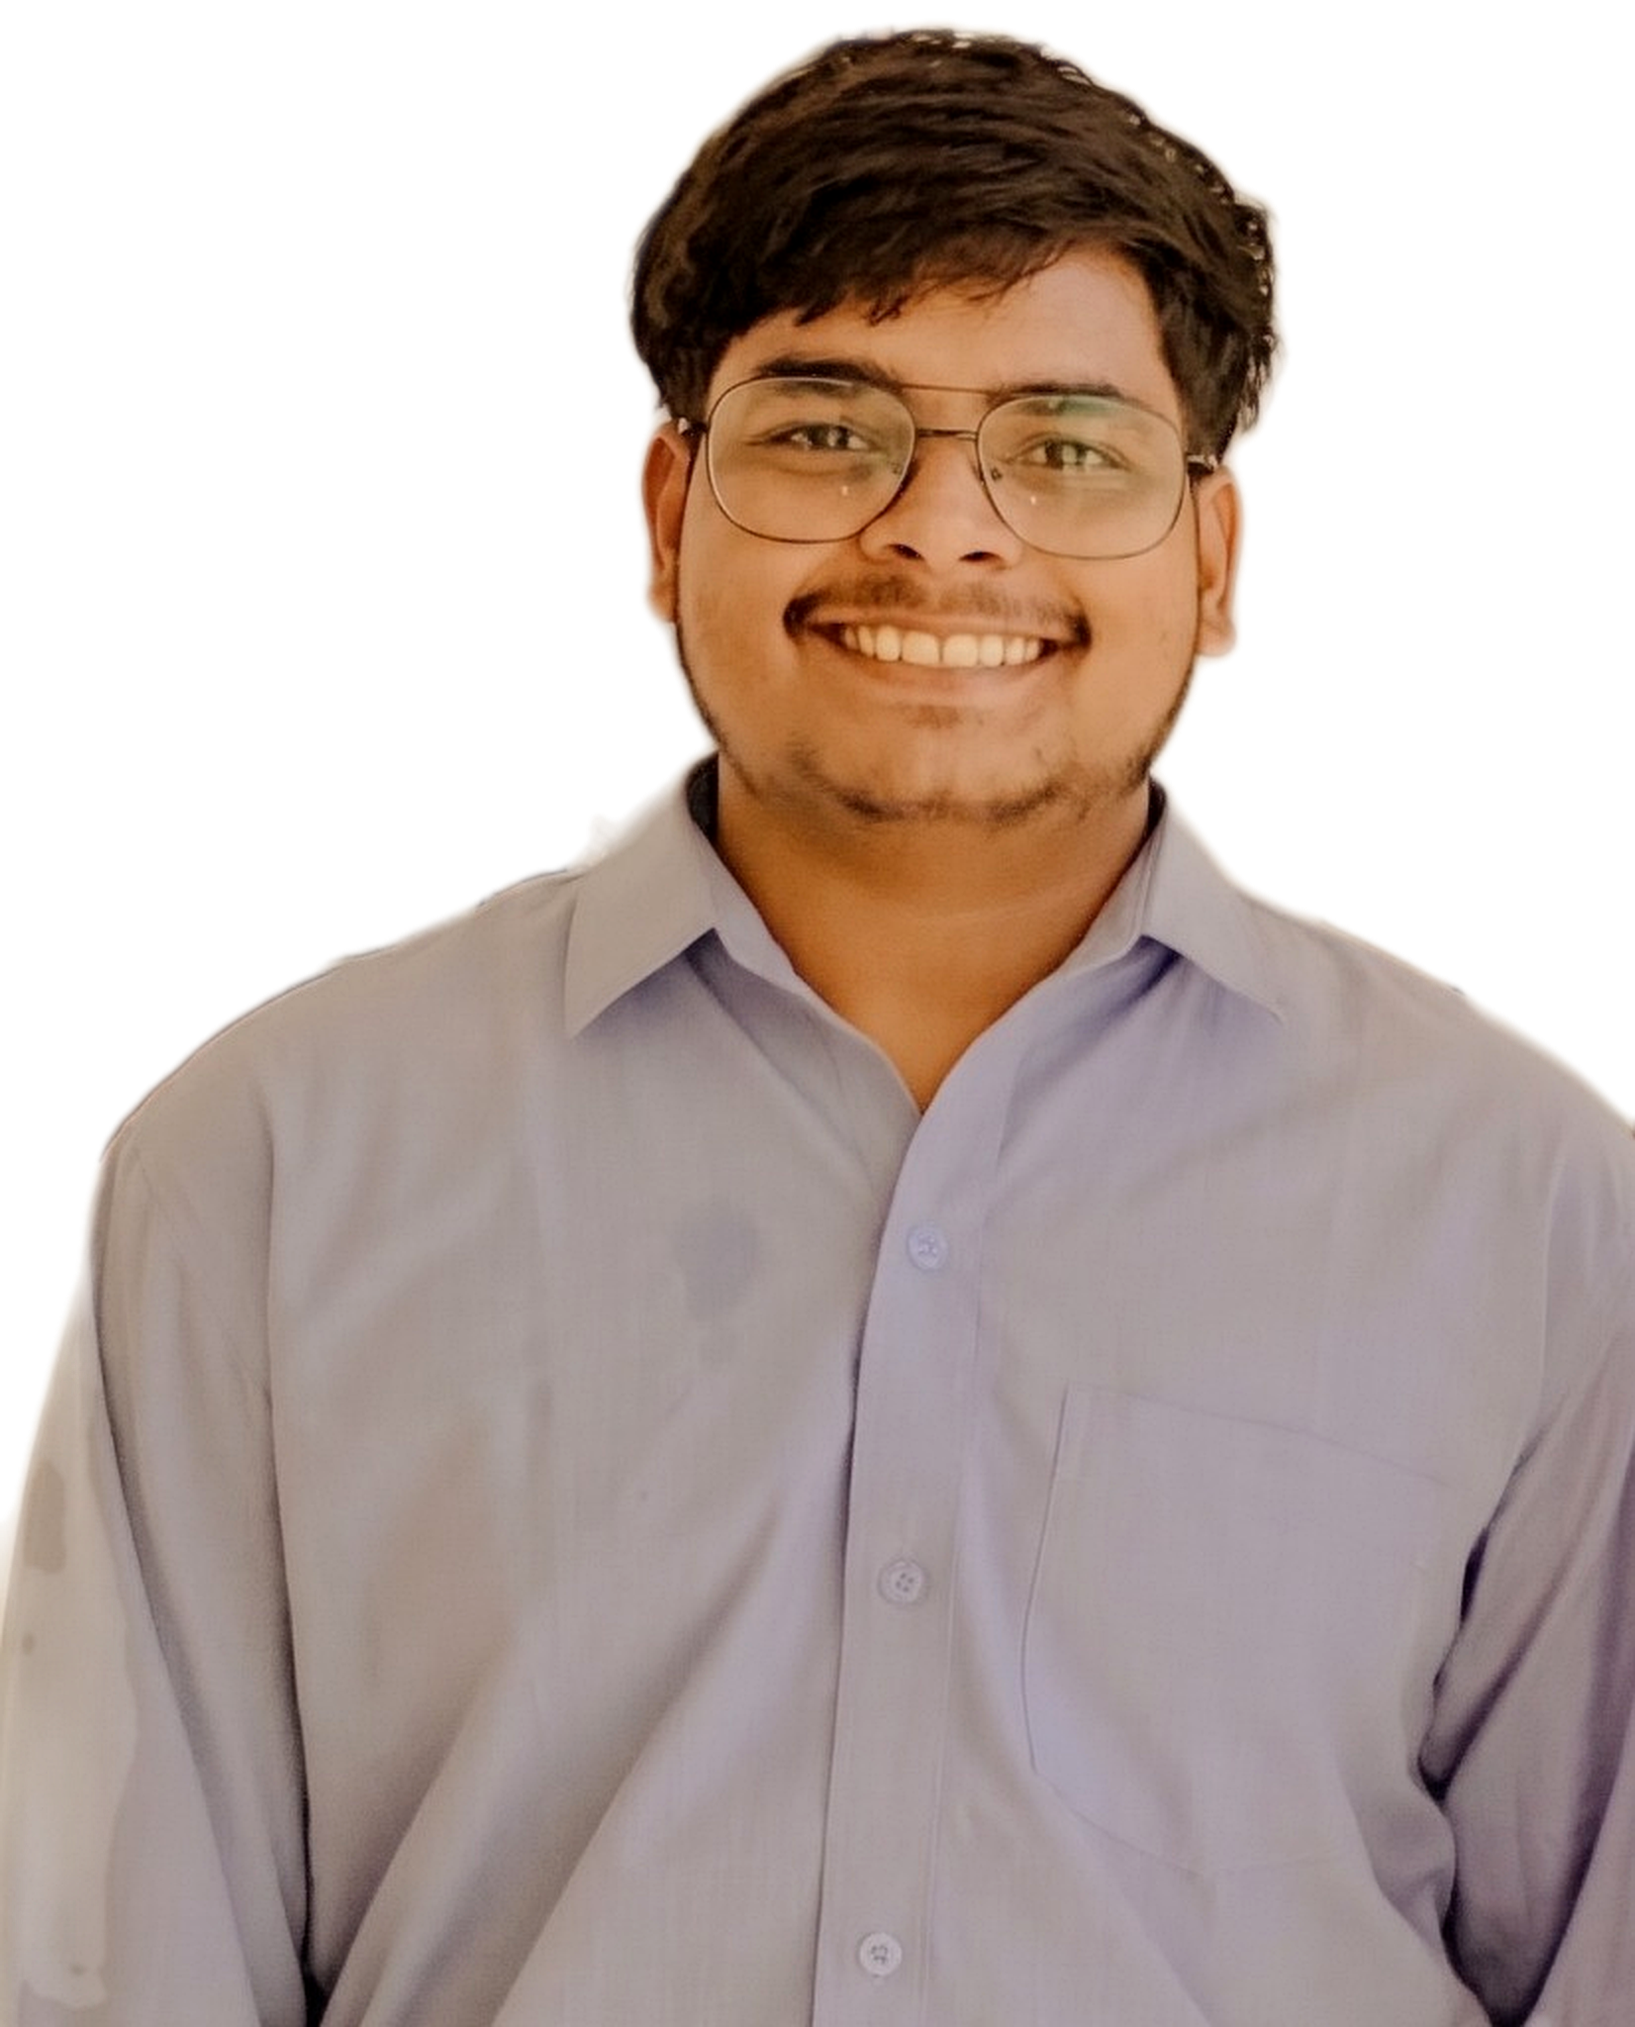
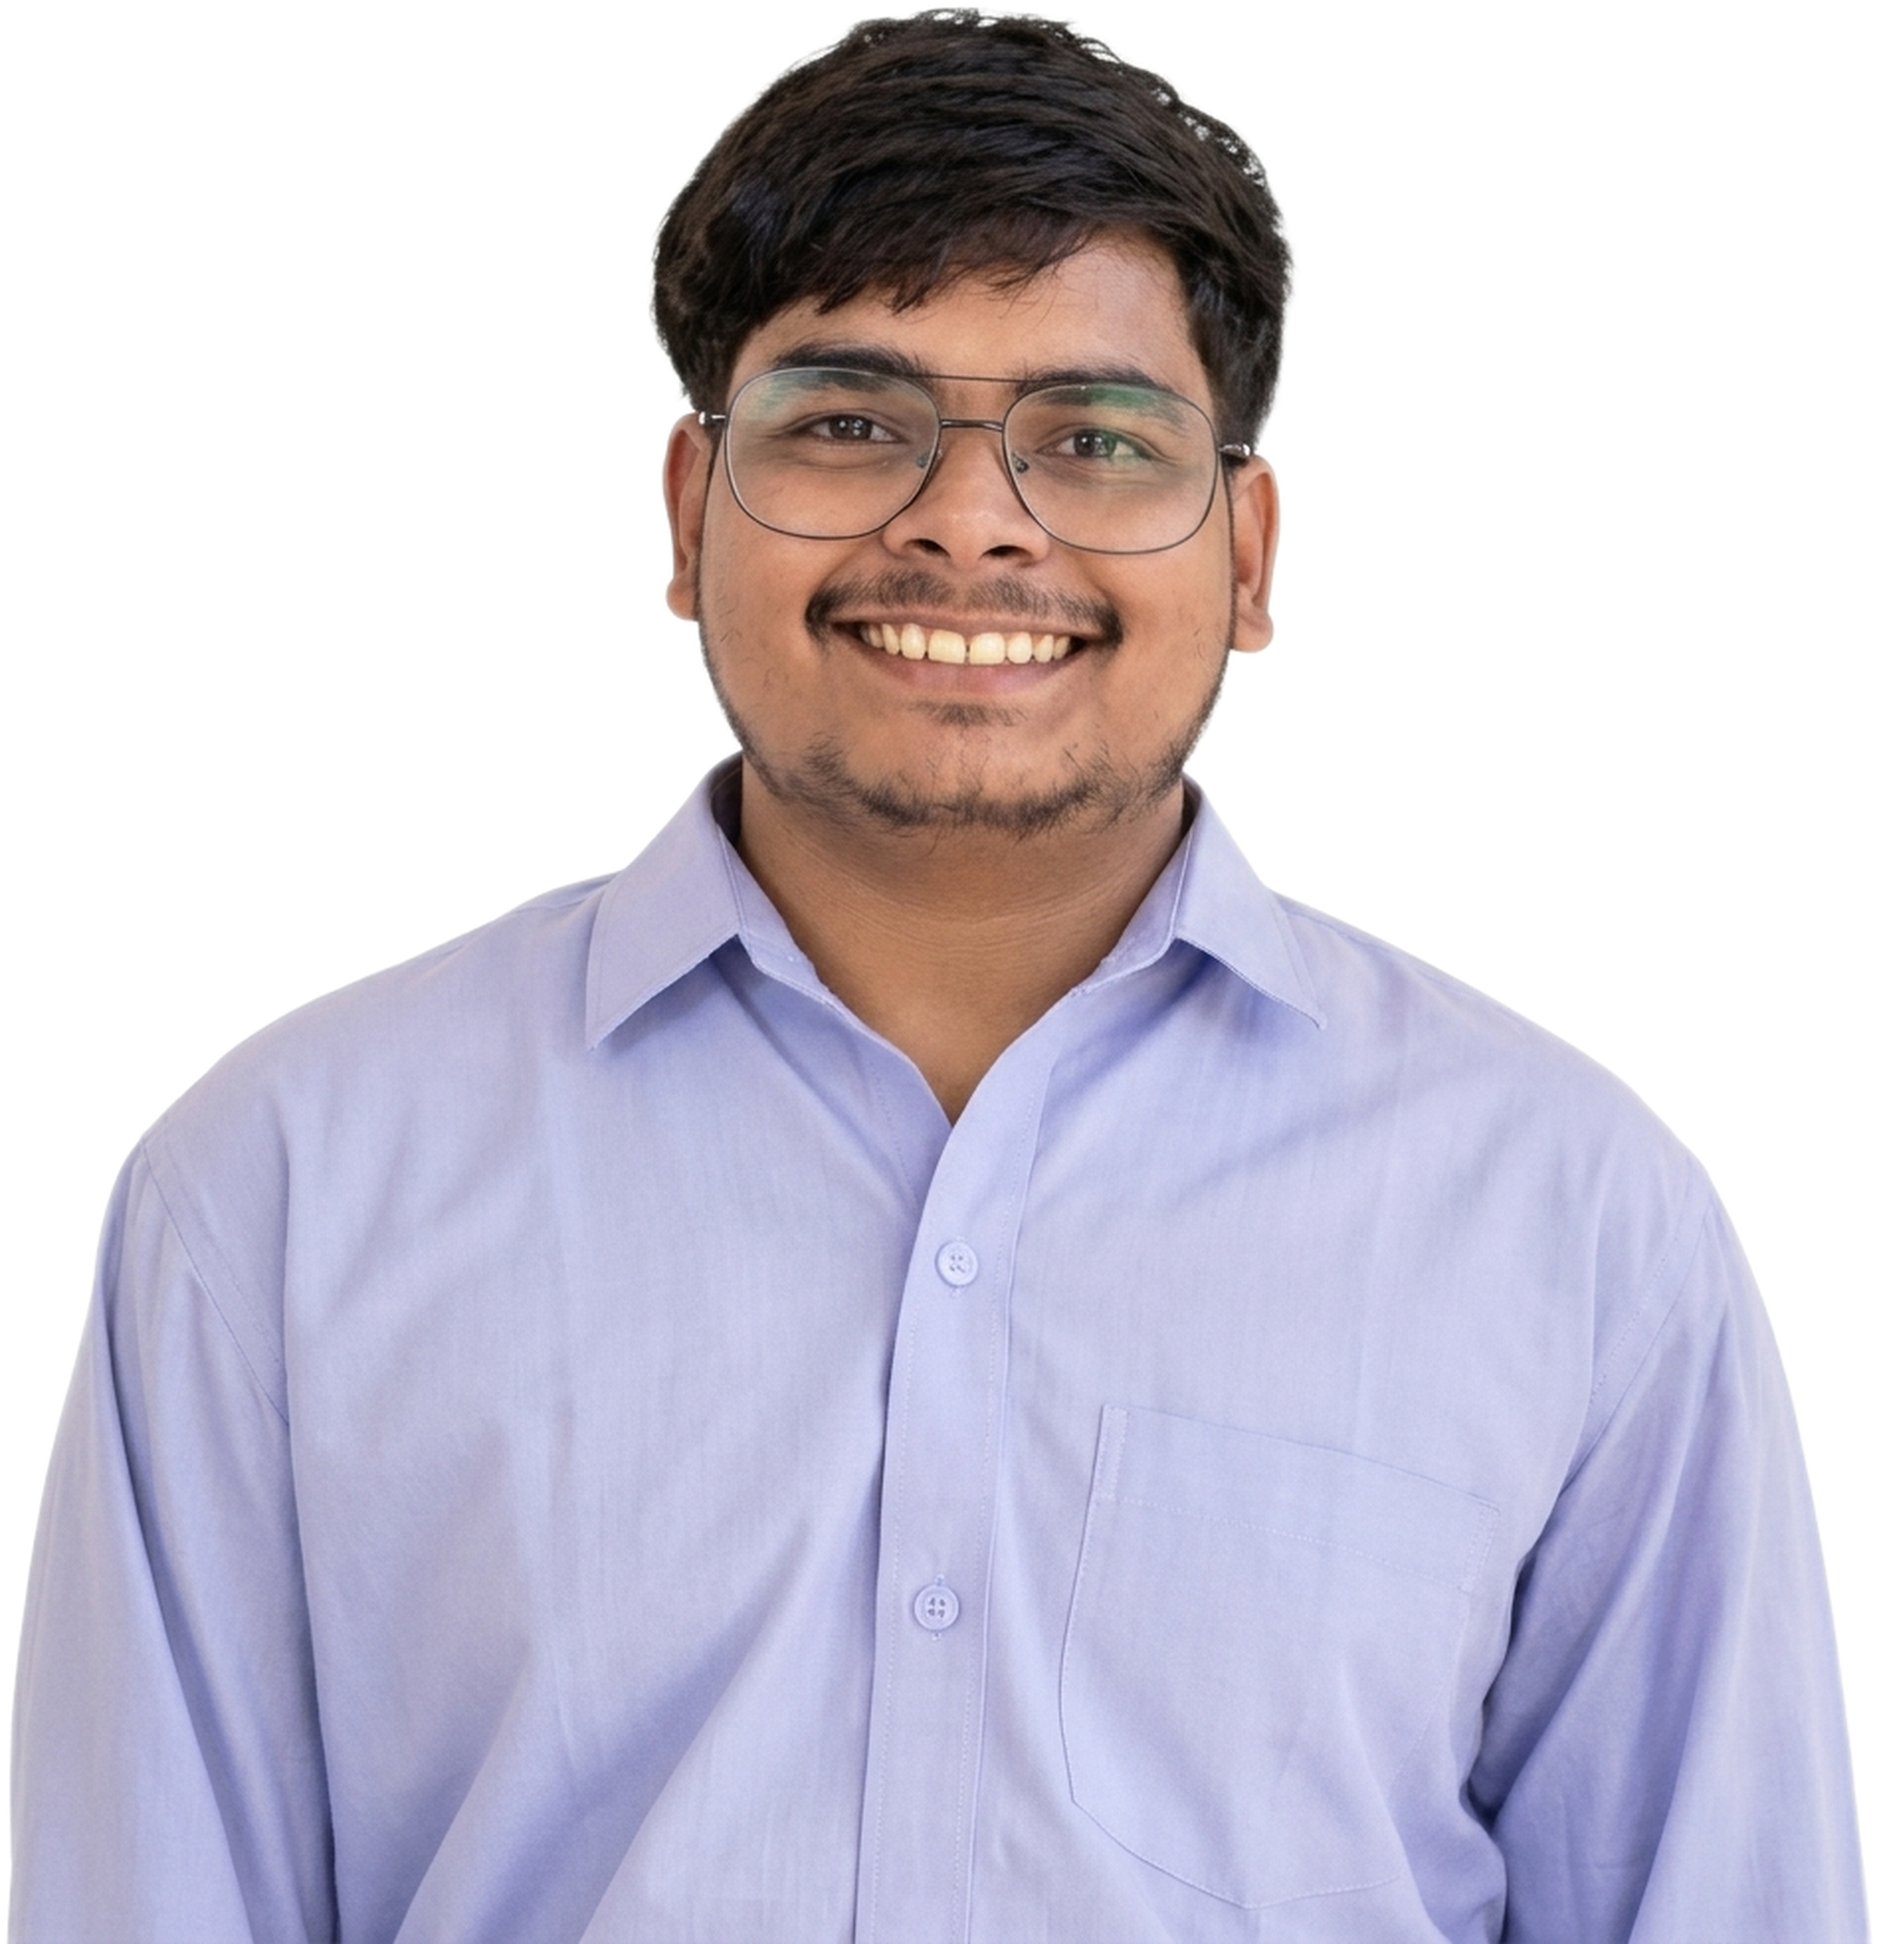
feat: display free-standing 8K cutout PNG without box and with balanced shoulders

diff --git a/src/components/Hero.tsx b/src/components/Hero.tsx
@@ -116,24 +116,19 @@ export const Hero: React.FC = () => {
 
           </div>
 
-          {/* Right Column: Permanent Portrait (5 Cols) */}
-          <div className="lg:col-span-5 relative flex justify-center items-center py-6">
+          {/* Right Column: Free-Standing Cutout PNG Portrait (5 Cols) */}
+          <div className="lg:col-span-5 relative flex justify-center items-end py-4">
             
-            {/* Soft Organic Pastel Ambient Backdrop */}
-            <div className="absolute w-[340px] sm:w-[380px] h-[460px] rounded-[2.5rem] bg-[#E8F1E8] rotate-2 pointer-events-none" />
-            <div className="absolute w-[340px] sm:w-[380px] h-[460px] rounded-[2.5rem] bg-[#F9EBDD] -rotate-2 pointer-events-none opacity-80" />
+            {/* Soft Ambient Radial Glow Behind Cutout */}
+            <div className="absolute w-[340px] sm:w-[420px] h-[340px] sm:h-[420px] rounded-full bg-gradient-to-tr from-[#E8F1E8] via-[#F9EBDD] to-[#FAF7F2] blur-3xl opacity-80 -z-10 pointer-events-none" />
 
-            {/* Central Portrait Container */}
-            <div className="relative w-full max-w-[320px] sm:max-w-[350px] aspect-[4/5] rounded-[2rem] border-2 border-white bg-gradient-to-b from-[#FAF7F2] to-[#EBE5DC] overflow-hidden shadow-soft-lg group">
-              {/* Profile Image */}
+            {/* Free-Standing Cutout PNG — Completely Out of the Box */}
+            <div className="relative z-10 w-full max-w-[360px] sm:max-w-[420px] flex justify-center">
               <img
-                src="/profile.png?v=2"
+                src="/profile.png?v=3"
                 alt={personalInfo.name}
-                className="w-full h-full object-cover object-top transition-transform duration-700 group-hover:scale-105"
+                className="w-full h-auto max-h-[520px] object-contain drop-shadow-[0_20px_35px_rgba(0,0,0,0.15)] transition-transform duration-500 hover:scale-[1.02]"
               />
-
-              {/* Bottom Subtle Gradient */}
-              <div className="absolute inset-0 bg-gradient-to-t from-black/20 via-transparent to-transparent pointer-events-none" />
             </div>
 
           </div>

diff --git a/scripts/fix_shoulder.py b/scripts/fix_shoulder.py
@@ -1,0 +1,131 @@
+import os
+import cv2
+import numpy as np
+import onnxruntime as ort
+from PIL import Image, ImageFilter, ImageEnhance
+
+def complete_and_cutout():
+    img_path = r"C:/Users/harsh/.gemini/antigravity/brain/f5f8f18e-94cc-420c-9b4d-50c66dd6f8e8/.user_uploaded/media_1795204435893_6d095e7a.jpg"
+    img = cv2.imread(img_path)
+    h, w, c = img.shape
+    print(f"Loaded original image: {w}x{h}")
+
+    # Expand canvas horizontally so the cut-off shoulder has room to naturally round off
+    # Face center is around x=480. Symmetrical width should be ~500 on each side -> total width ~1020
+    pad_right = 180
+    pad_left = 40
+    new_w = w + pad_left + pad_right
+    canvas = np.zeros((h, new_w, c), dtype=np.uint8)
+    
+    # Fill background color (mean of top-right background)
+    bg_color = np.median(img[50:200, -100:], axis=(0, 1)).astype(np.uint8)
+    canvas[:] = bg_color
+
+    # Paste original image
+    offset_x = pad_left
+    canvas[:, offset_x:offset_x + w] = img
+
+    # Now let's reconstruct the missing shoulder on the right:
+    # Look at the left shoulder (viewer's left, around x=20..220 in original image)
+    # y range for shoulder: y=500 to 1024
+    # Mirror the left shoulder slope and shirt fabric to complete the right shoulder
+    shoulder_left_patch = img[500:1024, 0:240]
+    shoulder_flipped = cv2.flip(shoulder_left_patch, 1) # horizontally flip
+    
+    # Adjust color of the flipped patch to match the right side lighting
+    # Right side is slightly warmer/darker, adjust mean color
+    mean_right_shirt = np.mean(img[700:900, 700:820], axis=(0, 1))
+    mean_left_shirt = np.mean(shoulder_left_patch[200:400, 50:200], axis=(0, 1))
+    color_ratio = (mean_right_shirt + 1e-5) / (mean_left_shirt + 1e-5)
+    
+    shoulder_adjusted = np.clip(shoulder_flipped.astype(np.float32) * color_ratio, 0, 255).astype(np.uint8)
+
+    # Blend the extended shoulder into the canvas on the right side
+    # Target region: offset_x + w - 40 to offset_x + w + 160
+    blend_width = min(200, shoulder_adjusted.shape[1])
+    paste_x = offset_x + w - 30
+    
+    for row in range(500, h):
+        src_row = row - 500
+        # Linear cross-fade
+        for col in range(blend_width):
+            tx = paste_x + col
+            if tx < new_w and src_row < shoulder_adjusted.shape[0]:
+                alpha = min(1.0, col / 35.0) # smooth fade-in
+                canvas[row, tx] = (
+                    (1 - alpha) * canvas[row, tx].astype(np.float32) + 
+                    alpha * shoulder_adjusted[src_row, col].astype(np.float32)
+                ).astype(np.uint8)
+
+    cv2.imwrite(r"public/canvas_extended_debug.jpg", canvas)
+    print("Extended canvas saved for mask prediction.")
+
+    # Now run ONNX U2Net on the balanced image!
+    model_path = os.path.expandvars(r"$TEMP\u2netp.onnx")
+    session = ort.InferenceSession(model_path, providers=['CPUExecutionProvider'])
+    input_name = session.get_inputs()[0].name
+
+    # Resize to 320x320 for U2Net
+    resized_for_model = cv2.resize(canvas, (320, 320), interpolation=cv2.INTER_AREA)
+    rgb_model = cv2.cvtColor(resized_for_model, cv2.COLOR_BGR2RGB).astype(np.float32) / 255.0
+    mean = np.array([0.485, 0.456, 0.406], dtype=np.float32)
+    std = np.array([0.229, 0.224, 0.225], dtype=np.float32)
+    norm = (rgb_model - mean) / std
+    tensor = np.transpose(norm, (2, 0, 1))
+    tensor = np.expand_dims(tensor, axis=0)
+
+    print("Running U2Net segmentation on balanced image...")
+    outputs = session.run(None, {input_name: tensor})
+    d0 = outputs[0][0, 0, :, :]
+    d0 = (d0 - np.min(d0)) / (np.max(d0) - np.min(d0) + 1e-8)
+    mask_np = (d0 * 255).astype(np.uint8)
+
+    # Resize mask to canvas size
+    mask_full = cv2.resize(mask_np, (new_w, h), interpolation=cv2.INTER_CUBIC)
+    
+    # Smooth bilateral filter
+    mask_refined = cv2.bilateralFilter(mask_full, d=9, sigmaColor=75, sigmaSpace=75)
+    mask_refined = np.where(mask_refined < 30, 0, mask_refined)
+    mask_refined = np.where(mask_refined > 215, 255, mask_refined).astype(np.uint8)
+
+    # Convert canvas to PIL RGBA
+    canvas_rgb = cv2.cvtColor(canvas, cv2.COLOR_BGR2RGB)
+    pil_img = Image.fromarray(canvas_rgb).convert("RGBA")
+    
+    # Smooth alpha mask
+    mask_pil = Image.fromarray(mask_refined, mode="L").filter(ImageFilter.GaussianBlur(radius=1.2))
+    pil_img.putalpha(mask_pil)
+
+    # Crop to subject bounding box with symmetric margins
+    bbox = pil_img.getbbox()
+    if bbox:
+        # Make left and right symmetric relative to face center
+        face_center_x = offset_x + 480
+        dist_left = face_center_x - bbox[0]
+        dist_right = bbox[2] - face_center_x
+        max_dist = max(dist_left, dist_right) + 20
+        
+        crop_left = max(0, face_center_x - max_dist)
+        crop_right = min(new_w, face_center_x + max_dist)
+        crop_top = max(0, bbox[1] - 15)
+        crop_bottom = min(h, bbox[3])
+        
+        pil_img = pil_img.crop((crop_left, crop_top, crop_right, crop_bottom))
+
+    # Enhance crispness
+    sharpener = ImageEnhance.Sharpness(pil_img)
+    pil_img = sharpener.enhance(1.25)
+    contrast = ImageEnhance.Contrast(pil_img)
+    pil_img = contrast.enhance(1.05)
+
+    # Upscale 2x Lanczos for crystal-clear 8K definition
+    final_w = pil_img.width * 2
+    final_h = pil_img.height * 2
+    pil_img_8k = pil_img.resize((final_w, final_h), Image.Resampling.LANCZOS)
+
+    out_path = r"public/profile.png"
+    pil_img_8k.save(out_path, "PNG", optimize=True)
+    print(f"Saved complete symmetric 8K PNG ({final_w}x{final_h}) to {out_path}!")
+
+if __name__ == "__main__":
+    complete_and_cutout()
